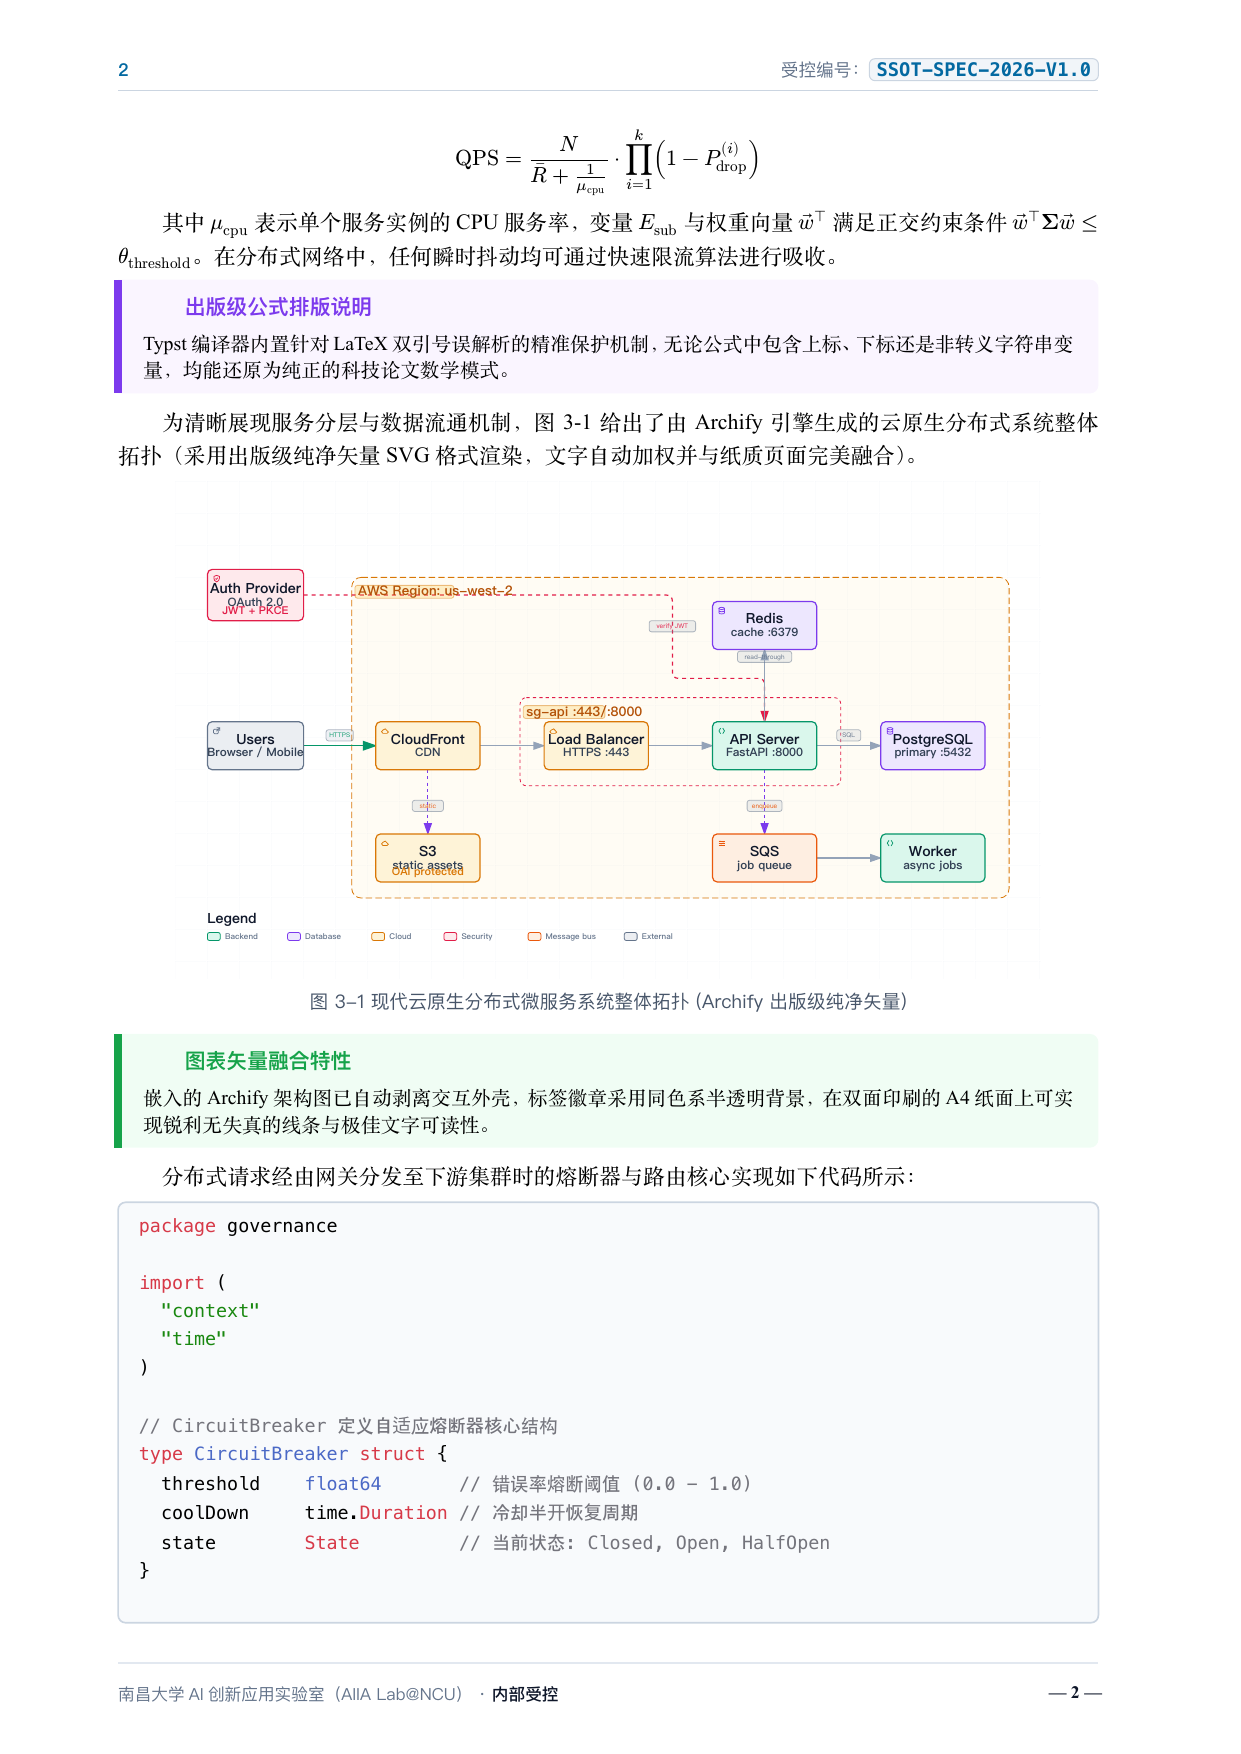
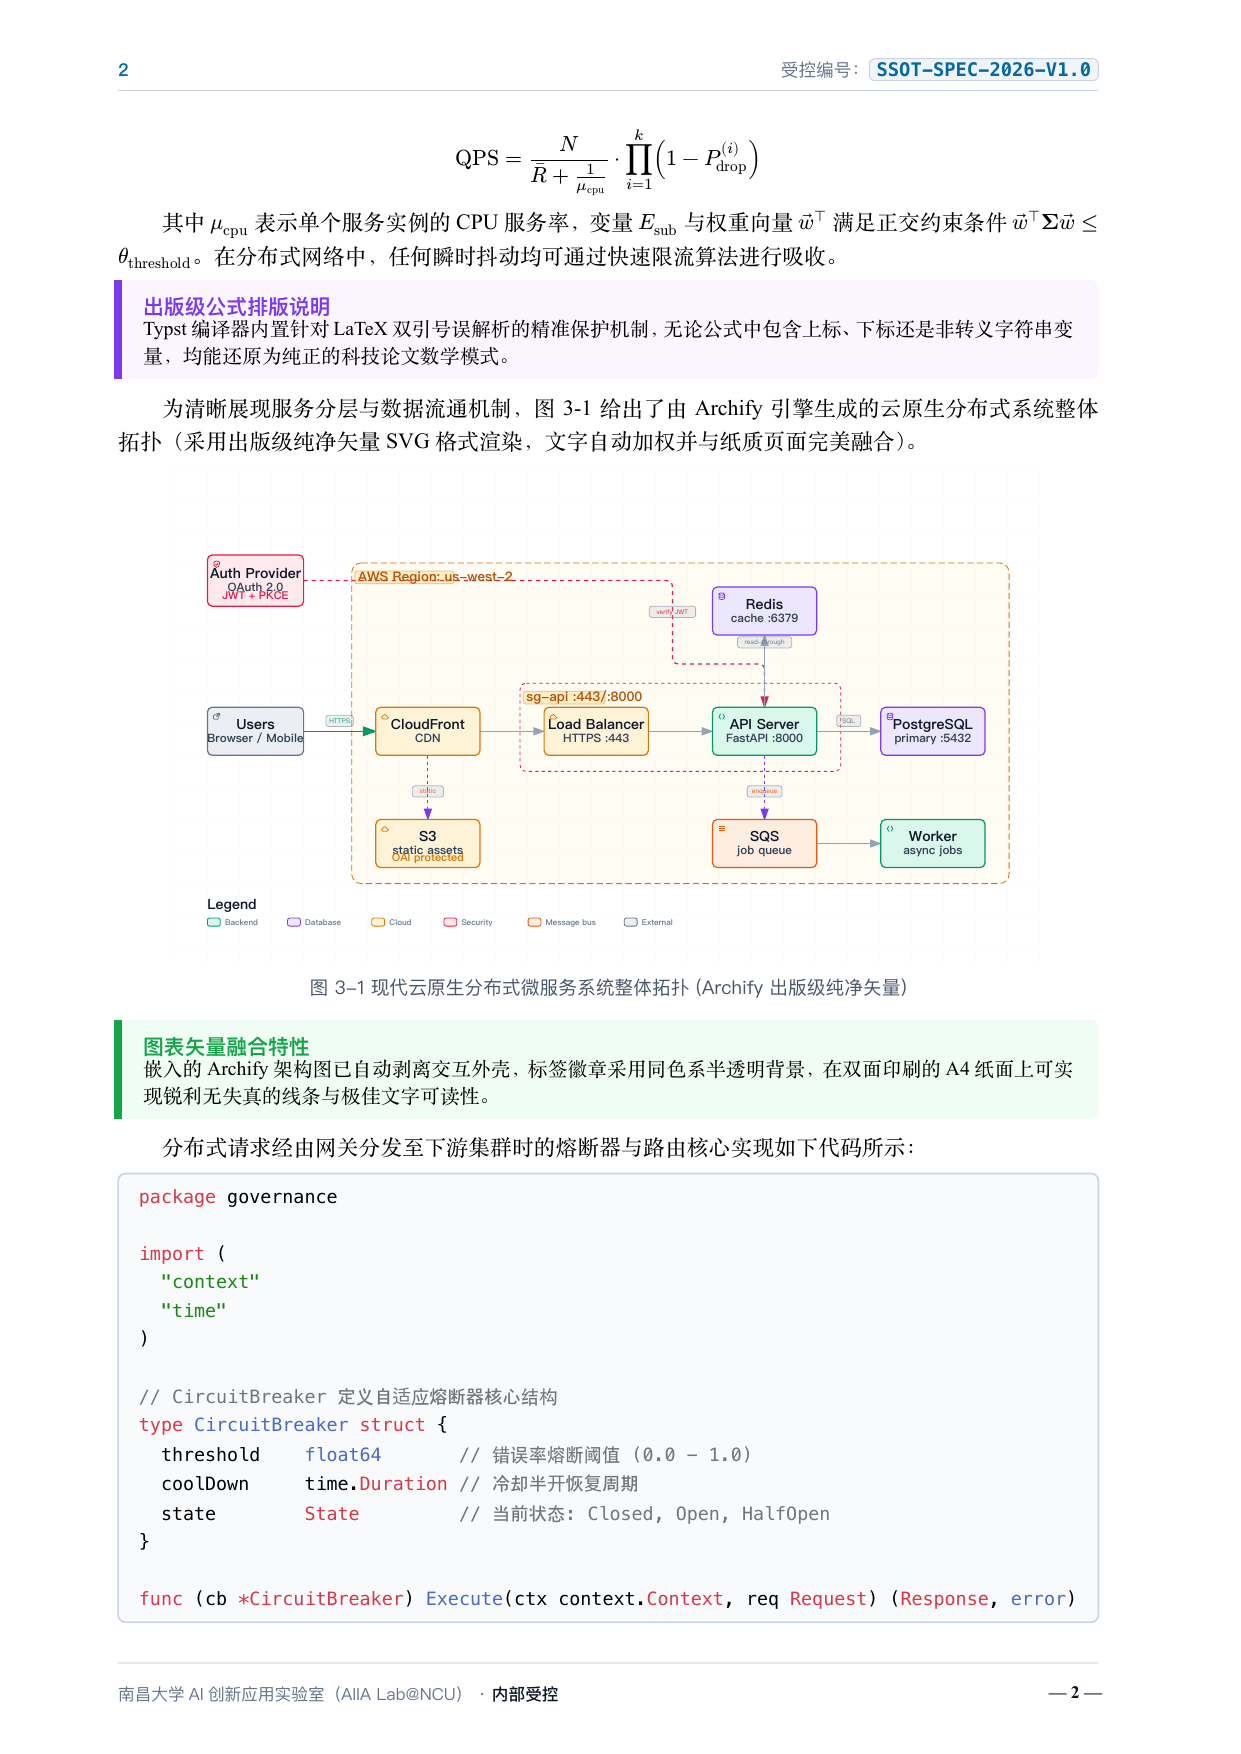
fix(typst): left-align callout card titles without indent and update preview

diff --git a/skills/typst/scripts/ssot_to_typst.py b/skills/typst/scripts/ssot_to_typst.py
@@ -950,9 +950,10 @@ def convert_ssot_to_typst(md_path: str) -> str:
   above: 8pt,
   below: 10pt
 )[
-  #text(font: ("PingFang SC", "Heiti SC"), weight: "bold", size: 10pt, fill: rgb("{stroke_color}"))[{title_line}]
-  #v(0.2em)
   #set par(first-line-indent: (amount: 0em, all: true), leading: 0.65em)
+  #block(width: 100%, below: 0.35em)[
+    #text(font: ("PingFang SC", "Heiti SC"), weight: "bold", size: 10pt, fill: rgb("{stroke_color}"))[{title_line}]
+  ]
   #text(size: 9.5pt)[{body_joined}]
 ]
 """)
@@ -1247,7 +1248,10 @@ def main():
     print(f"✍  [SSOT-to-Typst] 已生成 Typst 源码: {out_typ}")
 
     print(f"⚡ [SSOT-to-Typst] 正在调用 Typst 0.15 编译矢量 PDF ...")
-    root_dir = os.getcwd()
+    try:
+        root_dir = os.path.commonpath([os.path.abspath(out_typ), os.getcwd()])
+    except Exception:
+        root_dir = os.path.dirname(os.path.abspath(out_typ))
     cmd = f"typst compile --root \"{root_dir}\" \"{out_typ}\" \"{out_pdf}\""
     res = subprocess.run(cmd, shell=True, capture_output=True, text=True)
 
